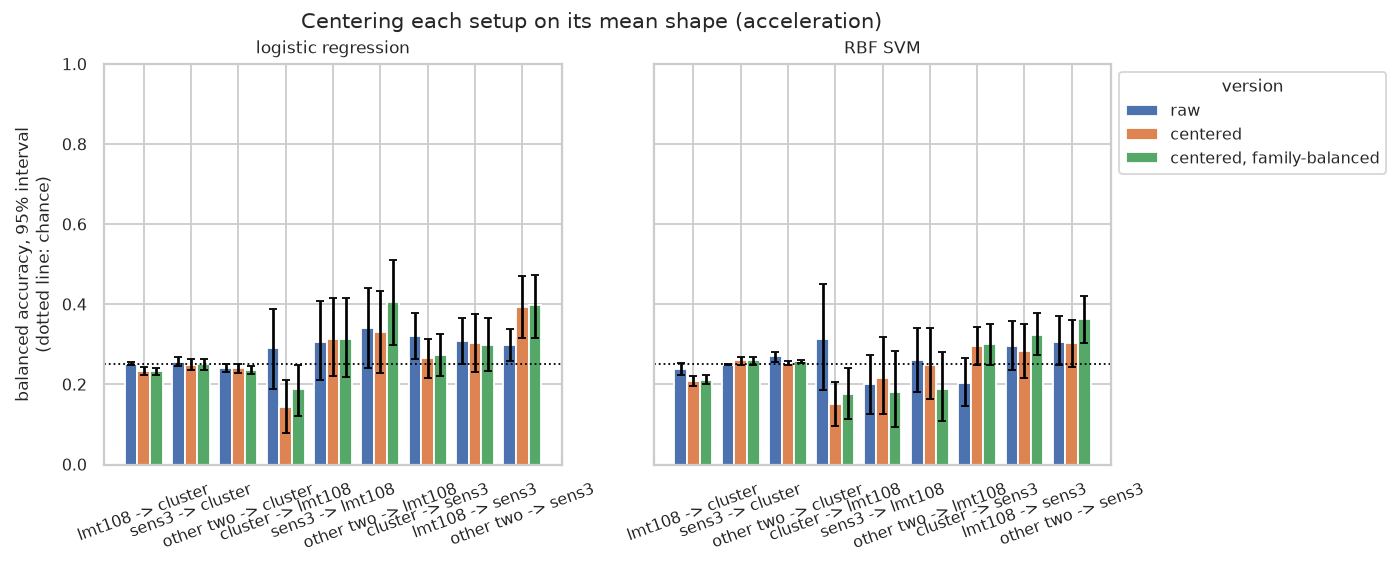
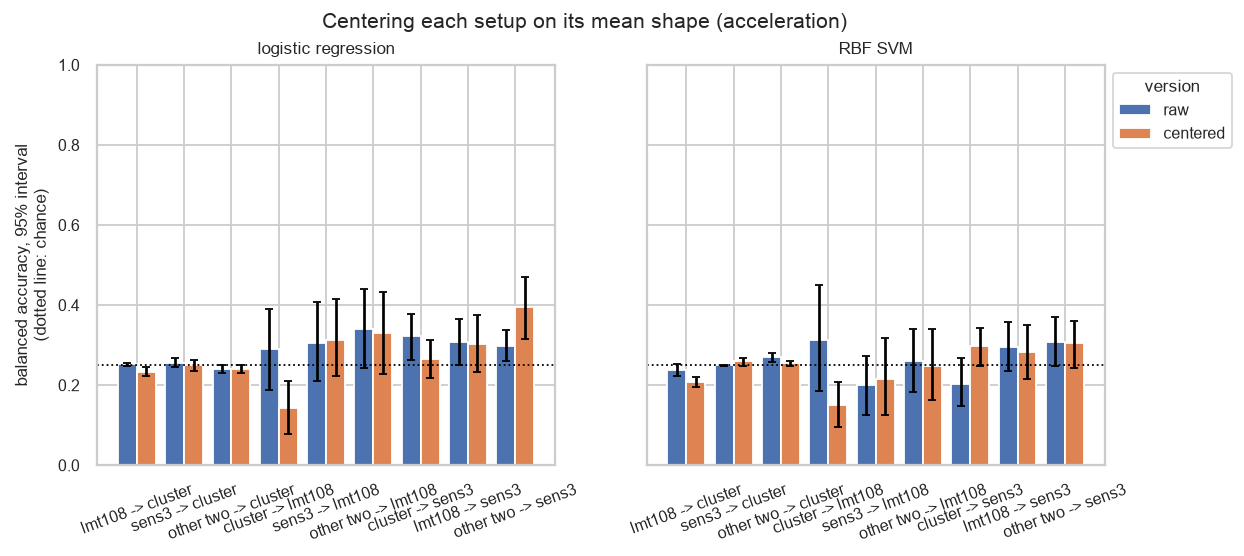
Fix label leak, duplicate surfaces across folds and single-seed variants
- Setup centering no longer uses the tested setup's families; drop the
  family-balanced version and its rows and figures.
- Historical surface folds keep duplicate materials (White ash 8/13,
  Cotton 88/104, SolidRubber V1/V2, Beech/CoreBeech) in the same fold,
  in the scripts and in pretrained_encoders.ipynb.
- CNN variants train with 3 seeds, pooled in the score, and the chosen
  variant's external SENS3 score is printed as the number to report.
- README: no best-of-many SENS3 score; fold results to be regenerated.

Changed region(s): [[0.0, 0.0306, 1.0, 0.9784]]

diff --git a/scripts/classification/variants.py b/scripts/classification/variants.py
@@ -30,6 +30,7 @@ TESTS = {
     "LMT108 -> Cluster (development)": (["lmt108"], "cluster"),
     "Cluster + LMT108 -> SENS3 (external)": (["cluster", "lmt108"], "sens3"),
 }
+N_SEEDS = 3
 
 
 def cnn_scores(variants):
@@ -49,18 +50,22 @@ def cnn_scores(variants):
             test_windows = np.flatnonzero(window_dataset == test_dataset)
         for input_name in SPECTROGRAMS_OF_INPUT:
             for variant_name, variant in variants.items():
-                model = train(
-                    input_name,
-                    spectrograms,
-                    family_of_window,
-                    group_of_window,
-                    train_windows,
-                    seed=0,
-                    variant=variant,
-                    target=(test_spectrograms, test_windows, test_dataset),
-                )
-                predicted = classify_recordings(model, test_spectrograms, test_windows, test_recording_of_window)
-                scores = score(tested, predicted.reindex(tested.index))
+                predictions = []
+                for seed in range(N_SEEDS):
+                    model = train(
+                        input_name,
+                        spectrograms,
+                        family_of_window,
+                        group_of_window,
+                        train_windows,
+                        seed=seed,
+                        variant=variant,
+                        target=(test_spectrograms, test_windows, test_dataset),
+                    )
+                    predicted = classify_recordings(model, test_spectrograms, test_windows, test_recording_of_window)
+                    predictions.append(predicted.reindex(tested.index))
+                # All seeds pooled: the interval then also covers the run-to-run noise.
+                scores = score(pd.concat([tested] * N_SEEDS), pd.concat(predictions))
                 rows.append({"test": test_name, "input": input_name, "variant": variant_name, **scores})
                 print(f"{test_name} | {input_name} | {variant_name}: {scores['balanced accuracy']:.2f}", flush=True)
     return rows
@@ -73,6 +78,10 @@ def mark_chosen(scores):
     best = mean_development.groupby("input").idxmax().map(lambda key: key[1])
     scores["chosen"] = scores.variant == scores.input.map(best)
     print("\nchosen on the development tests:\n" + best.to_string())
+    # Only the external test is unbiased: the development scores of the chosen variant were used to choose it.
+    external = scores[scores.chosen & scores.test.str.contains("external")]
+    print("\nchosen variant on the external test (the number to report):")
+    print(external[["input", "variant", "balanced accuracy", "low", "high"]].to_string(index=False))
     return scores
 
 

diff --git a/scripts/signal_processing/common.py b/scripts/signal_processing/common.py
@@ -6,10 +6,12 @@ import pandas as pd
 import seaborn as sns
 from scipy import ndimage, signal
 from scipy.io import wavfile
-from sklearn.model_selection import StratifiedKFold
+from sklearn.model_selection import StratifiedGroupKFold
 
 ROOT = Path(__file__).resolve().parents[2]
 sys.path.insert(0, str(ROOT / "scripts"))
+from splits import kept_surfaces  # noqa: E402
+
 from surface_families import surface_families  # noqa: E402
 
 CLUSTER = ROOT / "data/cluster/cluster_haptic_texture_dataset/sensor_data"
@@ -247,10 +249,15 @@ def shapes(psd):
 
 
 def surface_folds(meta):
-    surfaces = meta[["surface", "family"]].drop_duplicates().reset_index(drop=True)
-    splitter = StratifiedKFold(n_splits=5, shuffle=True, random_state=42)
+    # Same material = same group (e.g. Cluster 8 and 13 are both White ash), so it never sits on both sides.
+    kept = kept_surfaces()
+    group_of_surface = kept.set_index(kept.dataset + "/" + kept.surface).group
+    surfaces = meta[["dataset", "surface", "family"]].drop_duplicates().reset_index(drop=True)
+    surface_ids = surfaces.dataset + "/" + surfaces.surface
+    groups = surface_ids.map(group_of_surface).fillna(surface_ids)
+    splitter = StratifiedGroupKFold(n_splits=5, shuffle=True, random_state=42)
     fold_of_surface = {}
-    for fold, (_, test) in enumerate(splitter.split(surfaces.surface, surfaces.family)):
+    for fold, (_, test) in enumerate(splitter.split(surfaces.surface, surfaces.family, groups)):
         for surface in surfaces.surface.iloc[test]:
             fold_of_surface[surface] = fold
     return meta.surface.map(fold_of_surface).to_numpy()

diff --git a/scripts/classification/diagnostics.py b/scripts/classification/diagnostics.py
@@ -118,9 +118,9 @@ SETUPS = ["cluster", "lmt108", "sens3"]
 SPECTRAL_MODELS = {"logistic regression": lambda: LogisticRegression(max_iter=2000), "RBF SVM": SVC}
 
 
-def centered(shapes, recordings, balanced):
-    keys = [recordings.dataset, recordings.family] if balanced else [recordings.dataset]
-    setup_means = shapes.groupby(keys).mean().groupby(level=0).mean()
+def centered(shapes, recordings):
+    # Uses only the setup name, never the families: the tested setup's labels stay unseen.
+    setup_means = shapes.groupby(recordings.dataset).mean()
     return shapes - setup_means.loc[recordings.dataset].to_numpy()
 
 
@@ -133,8 +133,7 @@ def centering():
     recordings, shapes = spectral_shape_features("sens3")
     versions = {
         "raw": shapes,
-        "centered": centered(shapes, recordings, balanced=False),
-        "centered, family-balanced": centered(shapes, recordings, balanced=True),
+        "centered": centered(shapes, recordings),
     }
     rows = []
     for held_out in SETUPS:

diff --git a/README.md b/README.md
@@ -102,7 +102,7 @@ centering for unseen recording devices, we subtract each setup's mean spectral s
 from [On Frequency-Wise Normalizations for Better Recording Device Generalization in Audio Spectrogram
 Transformers](https://arxiv.org/abs/2306.11764); our experiment applies its idea to setup-level mean
 shapes and finds that removing the common filter alone does not align the families.
-The best case is acceleration on SENS3: 0.39 [0.32–0.47], an exploratory result on a repeatedly used test.
+Picking the best of these many scores on SENS3 would be selecting on the test, so no single best case is reported.
 
 ![Difference of mean shapes between setups](analysis/classification/setup_filter.png)
 ![Centering each setup, acceleration](analysis/classification/setup_centering_acceleration.png)
@@ -127,7 +127,9 @@ uv run python scripts/classification/run.py
 ```
 
 The classification run regenerates the team splits, results and waveform data; CNNs need a GPU.
-Historical results use five surface folds; the `spectral_models_on_team_splits` and
+Historical results use five surface folds, with duplicate materials (White ash 8/13, Cotton 88/104,
+SolidRubber V1/V2, Beech/CoreBeech) now kept in the same fold; results committed before this change
+let them straddle folds and are to be regenerated. The `spectral_models_on_team_splits` and
 `cnn_on_team_splits` commands use the team's grouped splits.
 Settings and seeds are fixed in the scripts. Scores are balanced accuracies; few-shot bands show
 variation across 20 draws, while the other intervals bootstrap whole surfaces.
